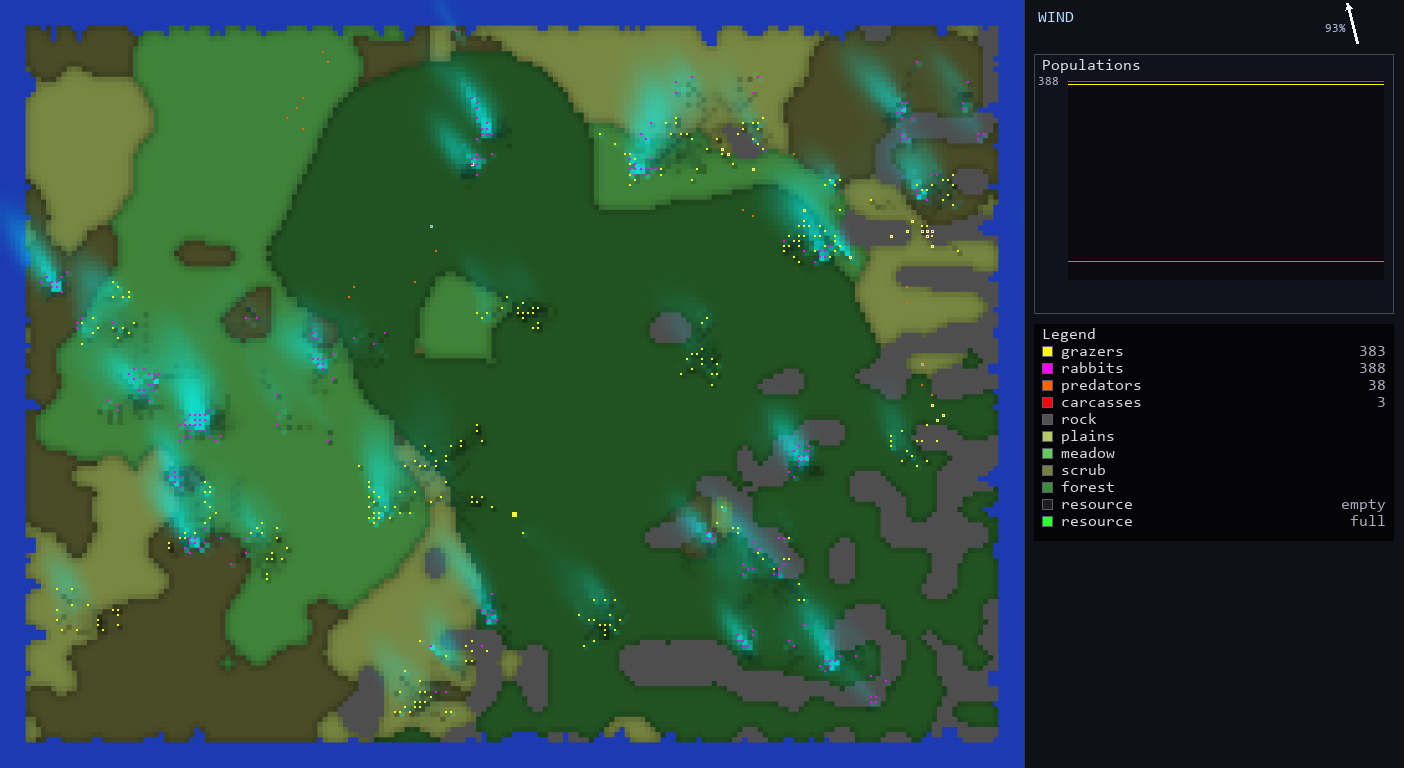
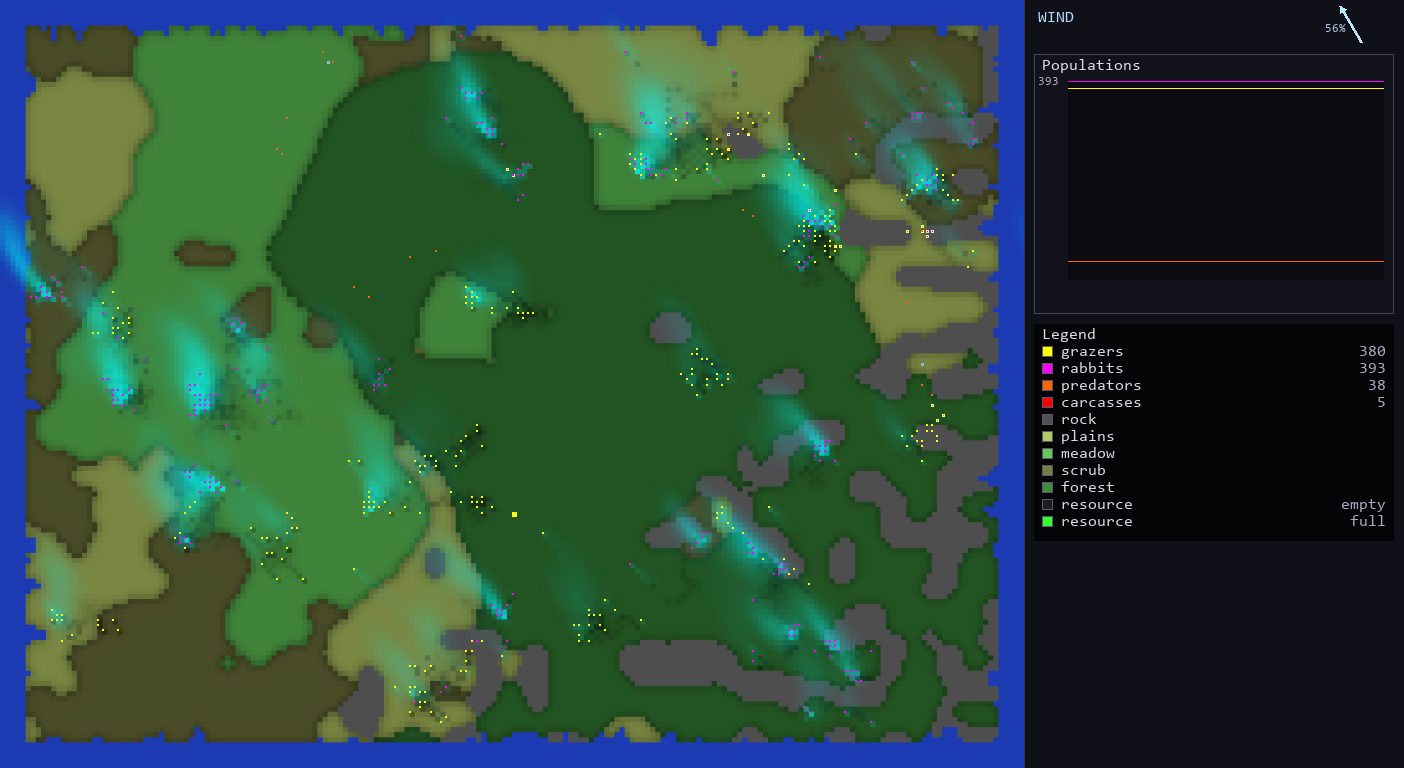
Fix predators dying while eating
- Predators now stop eating when:
  1. Full (energy >= max_energy)
  2. Carcass depleted (carcass.energy <= 0)
  2. No energy to gain (draw <= 0)

- Previously predators would eat until carcass empty, even if full
- This caused energy to exceed max_energy then crash
- Predators now switch to 'moving' state when full or carcass depleted

All 20 tests pass.

diff --git a/src/simulator/predator_behavior.py b/src/simulator/predator_behavior.py
@@ -113,11 +113,19 @@ class PredatorBehaviorSystem:
             # Oldest first
             feeders.sort(key=lambda p: p.age)
             for predator in feeders:
-                draw = min(per_step, carcass.energy)
+                # Stop eating if predator is full
+                if predator.energy >= predator.max_energy:
+                    predator.eating_state = "moving"
+                    continue
+                draw = min(per_step, carcass.energy, predator.max_energy - predator.energy)
+                if draw <= 0:
+                    predator.eating_state = "moving"
+                    continue
                 carcass.energy -= draw
                 predator.energy += draw
                 predator.eating_state = "feeding"
                 if not carcass.provides_energy:
+                    predator.eating_state = "moving"
                     break
 
     def _predator_kill_prey(self, predator) -> bool:
@@ -161,44 +169,24 @@ class PredatorBehaviorSystem:
                 return True
         return False
 
-    def _scent_gradient(self, predator) -> tuple[float, float] | None:
-        """Return (dy, dx) scent gradient for the predator, or None.
-
-        Scent flows downwind from prey positions. Predators use gradient descent
-        to follow the strongest scent concentration.
-        """
+    def _strongest_scent_cell(self, predator) -> tuple[int, int] | None:
+        """Return the coordinates of the cell with the strongest scent within range."""
         py, px = int(predator.y), int(predator.x)
         radius = self.sim.config.predator.scent_radius
         y0, y1 = max(0, py - radius), min(self.sim.map_height, py + radius + 1)
         x0, x1 = max(0, px - radius), min(self.sim.map_width, px + radius + 1)
 
-        # Scent strength from prey in the neighbourhood, weighted by distance
-        # and carried downwind.
-        wind_x = float(np.cos(self.sim._wind_dir)) * self.sim._wind_intensity
-        wind_y = float(np.sin(self.sim._wind_dir)) * self.sim._wind_intensity
-
-        grad_y = grad_x = 0.0
-        found = False
-        for prey in self.sim._prey_index.query(y0, y1 - 1, x0, x1 - 1):
-            if not prey.alive:
-                continue
-            ty, tx = int(prey.y), int(prey.x)
-            dy = ty - py
-            dx = tx - px
-            dist = max(1, self.distance(py, px, ty, tx))
-            # Scent is stronger closer and further UPWIND (scent flows downwind FROM prey)
-            # wind_x * dx + wind_y * dy is positive when prey is downwind of predator
-            # We want higher strength when prey is UPWIND (negative dot product)
-            # Normalize dot product by distance to keep strength in valid range
-            dot = (wind_x * dx + wind_y * dy) / dist
-            strength = (1.0 / dist) * max(0.0, 1.0 - dot)
-            grad_y += (ty - py) * strength / dist
-            grad_x += (tx - px) * strength / dist
-            found = True
-
-        if not found:
+        # Find the cell with the strongest scent
+        scent_slice = self.sim.env.scent[y0:y1, x0:x1]
+        if scent_slice.size == 0:
             return None
-        return (grad_y, grad_x)
+
+        max_idx = np.argmax(scent_slice)
+        if scent_slice.flat[scent_slice.argmax()] <= 0.01:  # Minimum threshold
+            return None
+
+        max_y, max_x = np.unravel_index(max_idx, scent_slice.shape)
+        return y0 + max_y, x0 + max_x
 
     def distance(self, y1: int, x1: int, y2: int, x2: int) -> int:
         """SPECIFICATION.md bounded Chebyshev distance (toroidal)."""
@@ -243,17 +231,13 @@ class PredatorBehaviorSystem:
         # Only hunt if hungry
         if hungry:
             # Priority 2: Follow scent gradient downwind
-            scent = self._scent_gradient(predator)
-            if scent is not None:
+            scent_target = self._strongest_scent_cell(predator)
+            if scent_target is not None:
                 predator.behavior_state = "scent_tracking"
-                magnitude = math.hypot(scent[0], scent[1])
-                if magnitude > 0.0:
-                    look_ahead = float(min(cfg.scent_radius, 8))
-                    ty = int(predator.y + scent[0] / magnitude * look_ahead)
-                    tx = int(predator.x + scent[1] / magnitude * look_ahead)
-                    ty, tx = self.sim.env.clamp(ty, tx)
-                    self.sim.movement.move_predator_toward(predator, ty, tx)
-                    return
+                ty, tx = scent_target
+                ty, tx = self.sim.env.clamp(ty, tx)
+                self.sim.movement.move_predator_toward(predator, ty, tx)
+                return
 
             # Priority 3: Investigate depletion
             if self.sim._investigate_depletion(predator):
